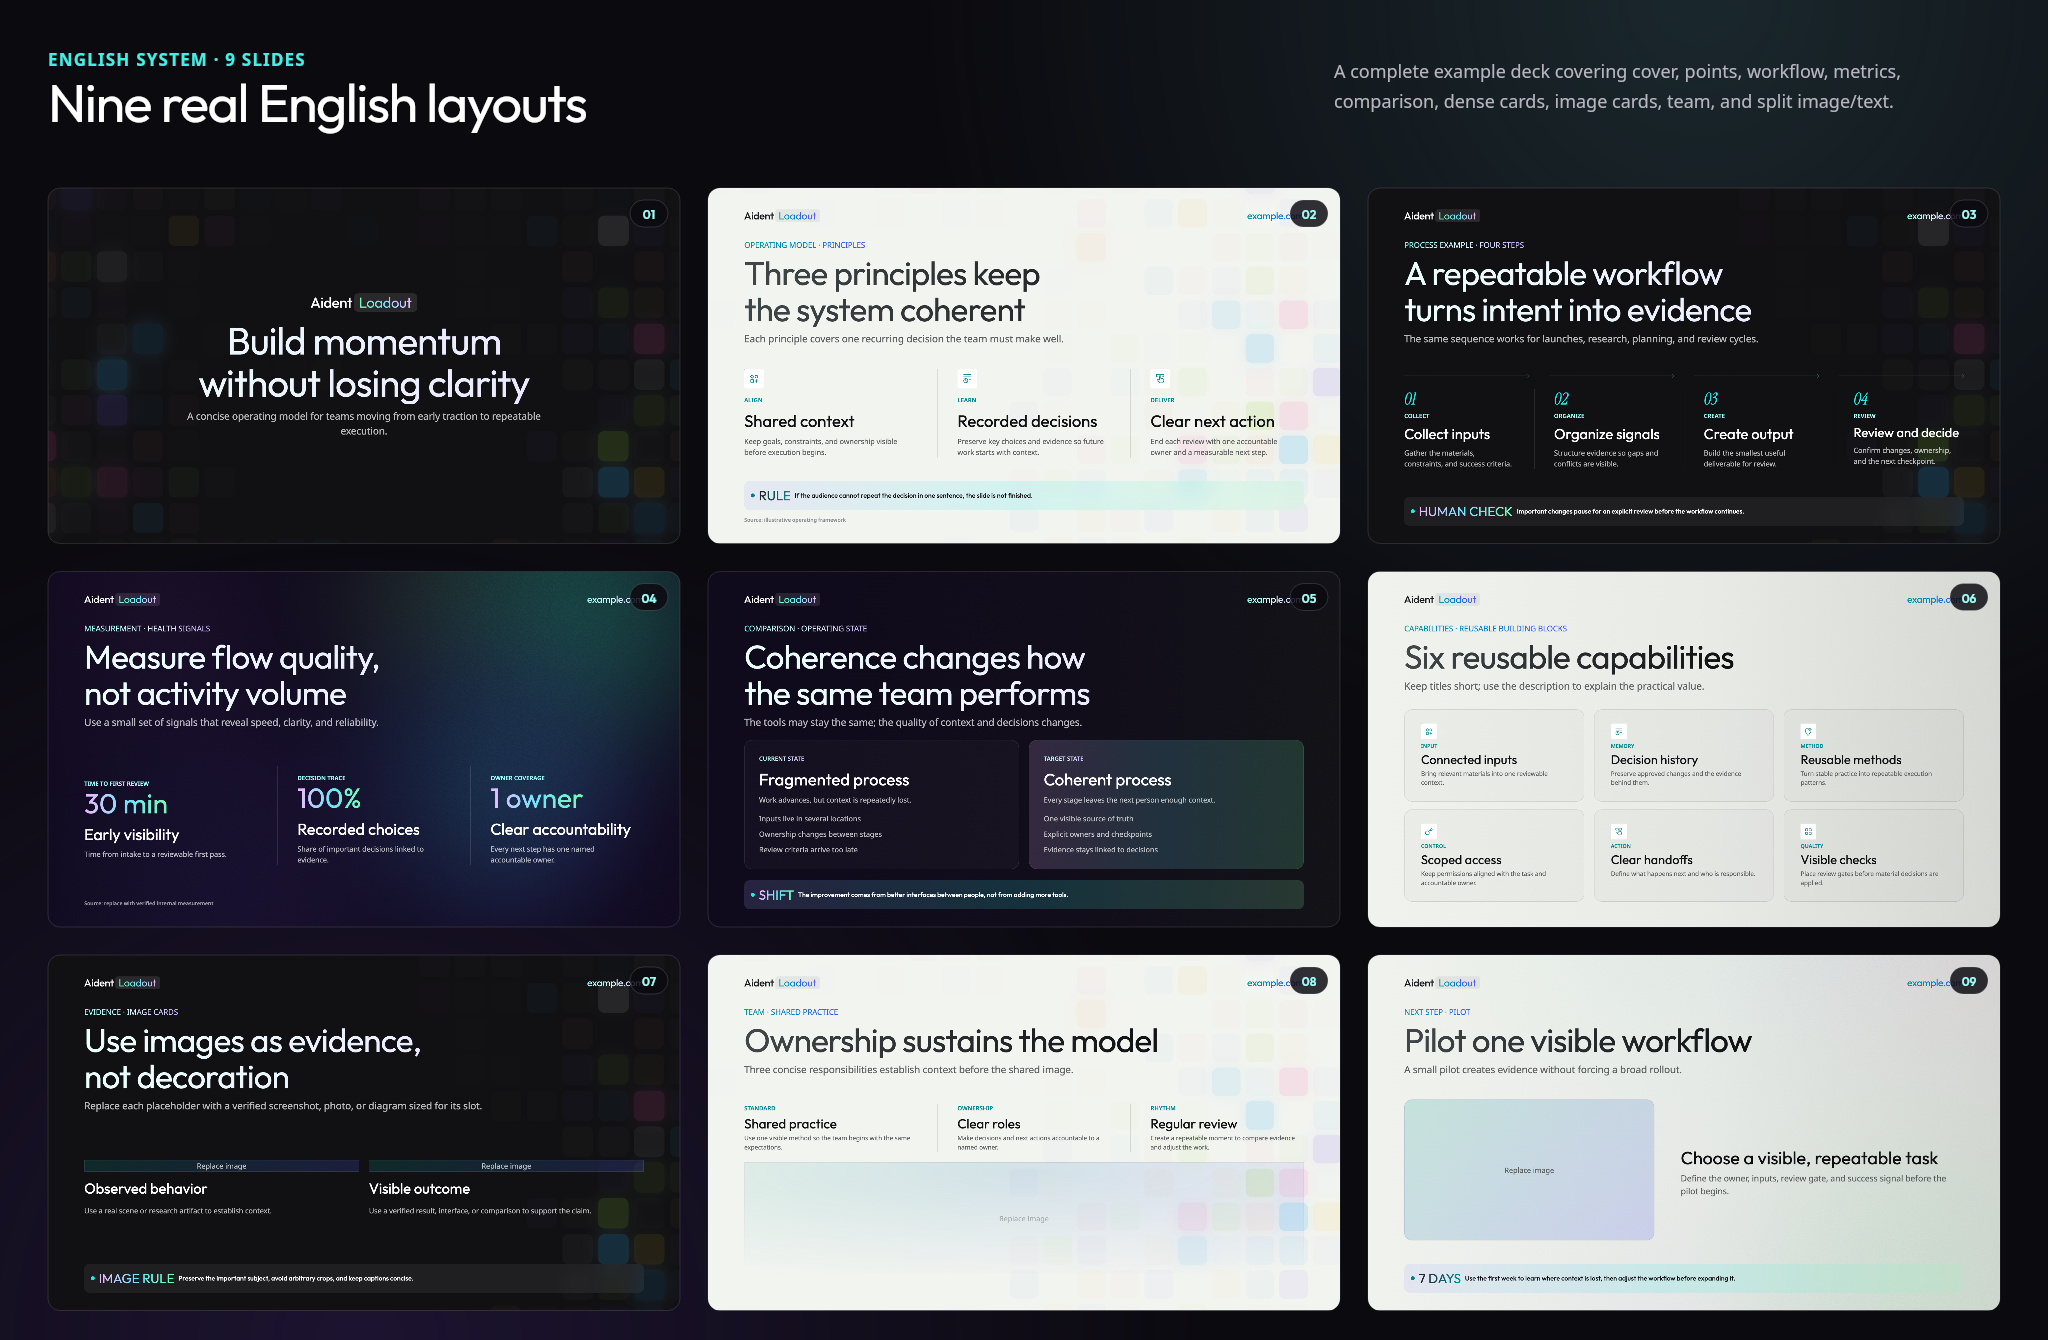
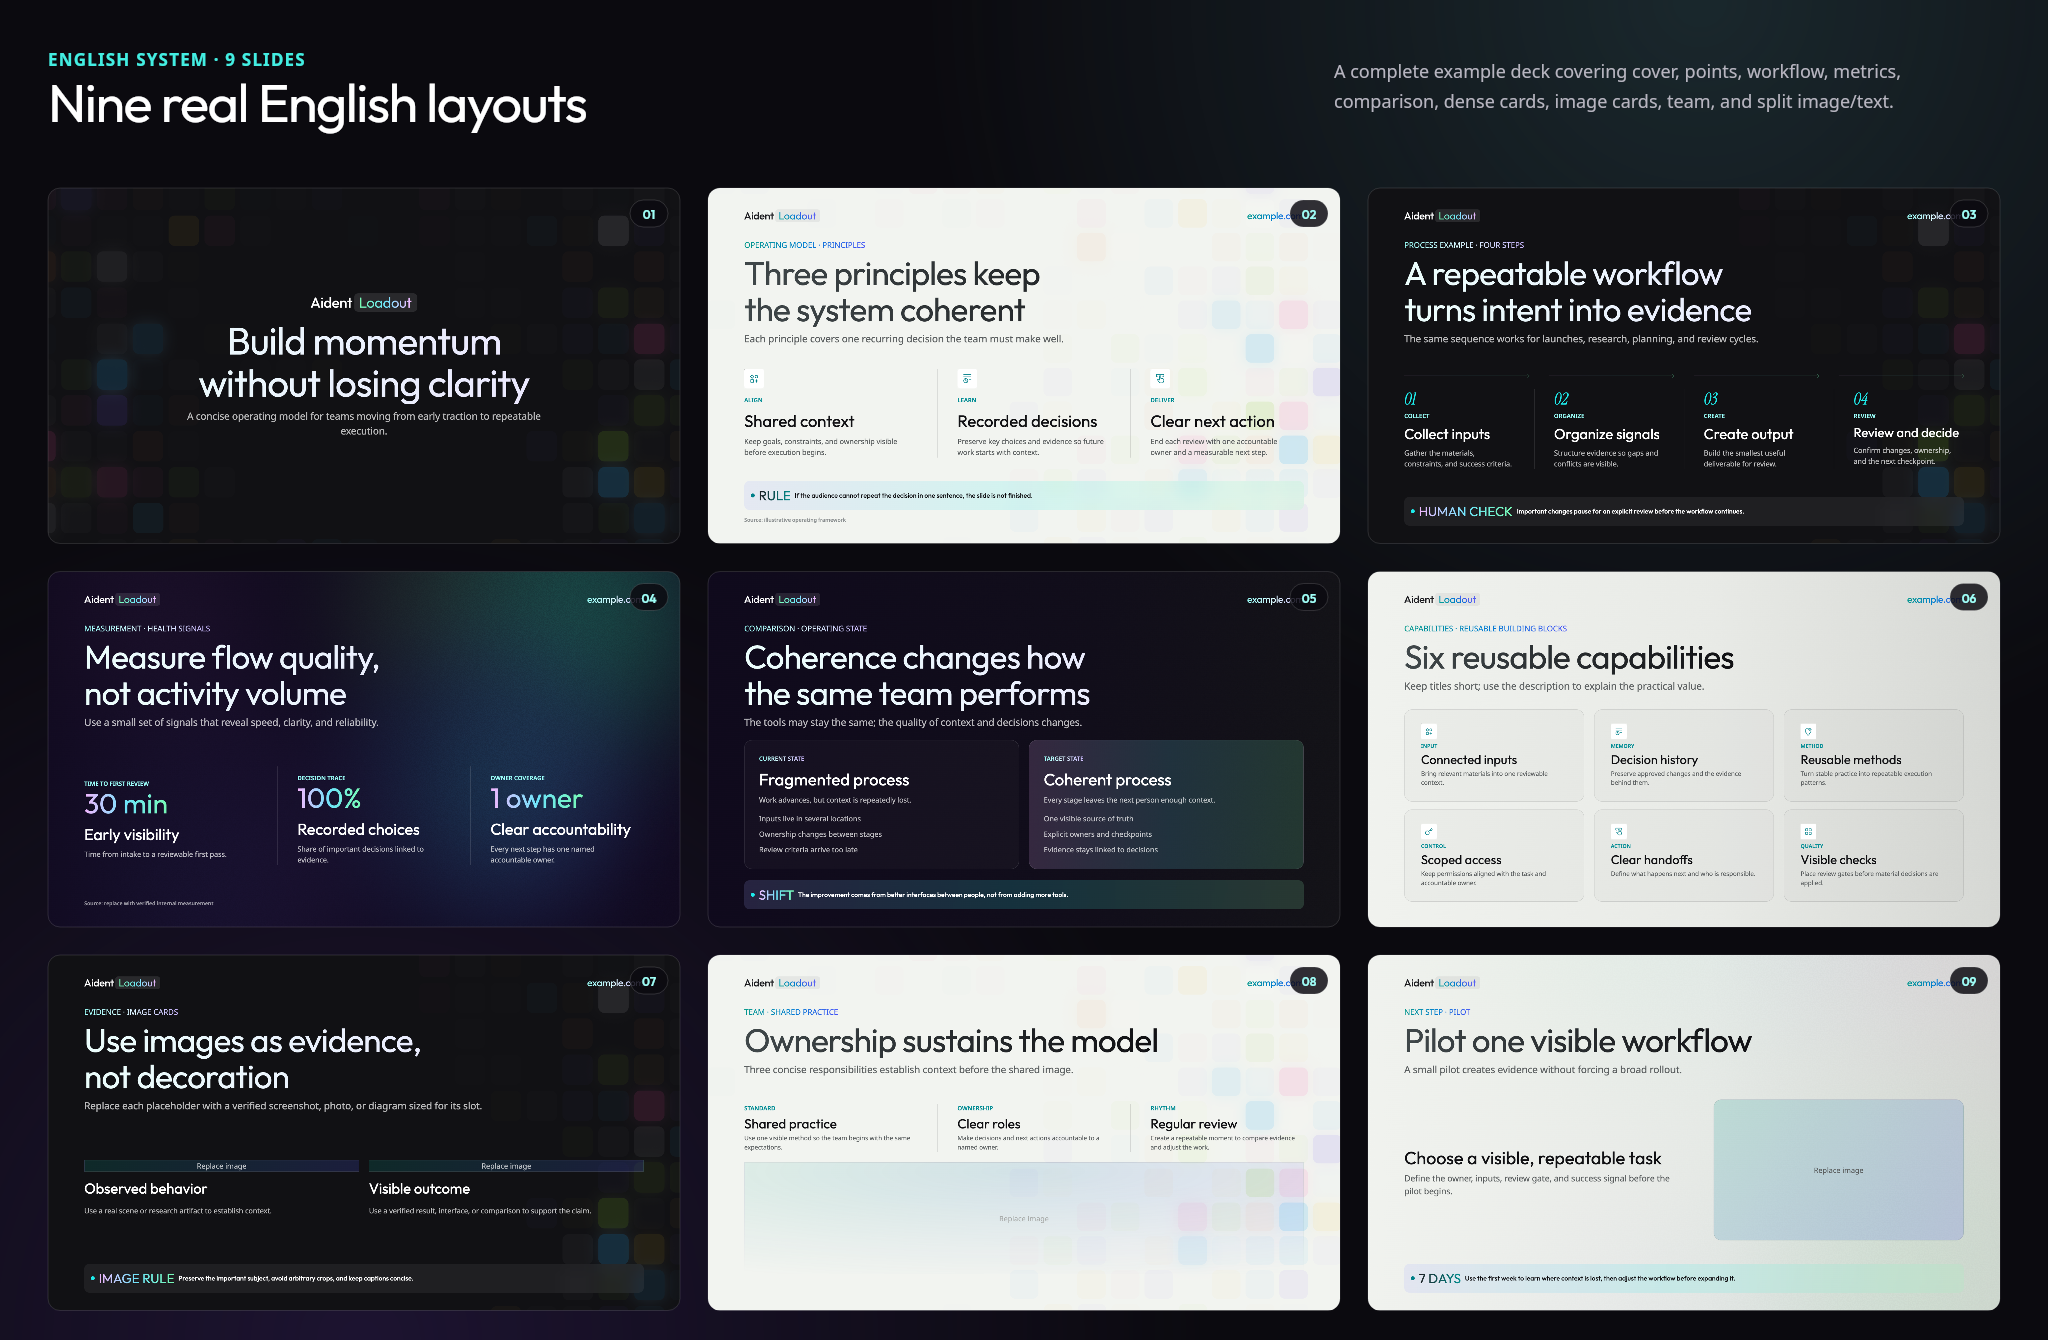
fix: lock split layouts to text-left image-right

Changed region(s): [[0.6875, 0.7955, 0.9688, 0.9485]]

diff --git a/assets/runtime/deck.css b/assets/runtime/deck.css
@@ -199,8 +199,7 @@ body[data-lang="zh"] .step-number{font-family:var(--font-zh-display);font-style:
 .team-media{width:1700px;height:340px;object-fit:cover;object-position:center 38%;-webkit-mask-image:radial-gradient(ellipse 116% 100% at 50% 8%,rgba(0,0,0,.85) 0%,transparent 100%);mask-image:radial-gradient(ellipse 116% 100% at 50% 8%,rgba(0,0,0,.85) 0%,transparent 100%)}
 .team-media-wrap{width:1700px;height:340px}
 
-.split{display:grid;grid-template-columns:760px minmax(0,1fr);gap:80px;align-items:center;height:100%}
-.split.reverse{grid-template-columns:minmax(0,1fr) 760px}
+.split{display:grid;grid-template-columns:minmax(0,1fr) 760px;gap:80px;align-items:center;height:100%}
 .split-media{width:760px;height:428px;object-fit:cover;border-radius:24px}
 .split-copy{display:flex;flex-direction:column;align-items:flex-start}
 .split-copy .item-title{white-space:normal;font-size:54px;line-height:1.3;text-wrap:balance}

diff --git a/references/layout-catalog.md b/references/layout-catalog.md
@@ -40,7 +40,7 @@ Source? (one line, lower left)
 | Comparison | 2 states | two equal cards | yes | yes | base / atmosphere |
 | Image cards | 2 or 3 | equal 16:10 media cards | yes | yes | base / elements-inner |
 | Team | 3 content items + one 1700×340 masked image | three columns above image | no | no | elements-inner / atmosphere |
-| Split image + text | image left/right | 760×428 media + 80px gap + text | yes | yes | base / elements-inner / atmosphere |
+| Split image + text | left text / right image | text + 80px gap + 760×428 media | yes | yes | base / elements-inner / atmosphere |
 | Full bleed | one hero image | 1920×1080 image + wash | yes, sparingly | yes | supplied image |
 
 ## Cover
@@ -162,7 +162,7 @@ Use only for an actual ordered sequence.
 ## Split image + text
 
 - One 760×428, 16:9 image with 24px radius.
-- `imageSide` can be `left` or `right`; the package default is left image / right text.
+- Text is always on the left and the image is always on the right. `imageSide`, when supplied, must be `right`.
 - Preserve the 80px gap between media and text.
 - `contentTitle` may wrap; it is not a small card title.
 - With Callout, the page title must be one line: EN 30 / ZH 14.

diff --git a/references/image-direction-and-screenshots.md b/references/image-direction-and-screenshots.md
@@ -57,12 +57,12 @@ Treat a screenshot as evidence, not as a background texture.
 - Prefer the slide/card surface and registered radius as the frame. Do not bake an Aident page header, title, Callout, or Source into the screenshot.
 - If the source aspect ratio is unsuitable, capture or redesign the screenshot at the target slot ratio instead of compressing it.
 
-## Side-aware split composition
+## Split composition
 
 For `split-image-text`:
 
-- `imageSide: "left"`: keep the subject near the left/center of the image and avoid visual pull toward the right text column;
-- `imageSide: "right"`: mirror the composition and keep the left edge calm next to the text;
+- keep the text column on the left and the image on the right;
+- keep the image's left edge calm next to the text and avoid a subject that visually collides with the copy column;
 - preserve the registered 80px media/text gap;
 - keep the main page heading outside the split region;
 - use one image only.

diff --git a/README.en.md b/README.en.md
@@ -199,6 +199,7 @@ Release requires every requested artifact and a matching passing QA report. See 
 - Source, logo, right-header text, label, and icon are independently optional.
 - Replacement logos preserve their intrinsic ratio: limit inner-header marks by 40px height and cover identity marks by 56px height; never stretch to a fixed width.
 - Team is strictly three concise content items above one 1700×340 masked image; it does not append a Callout or Source footer, and image provenance belongs in speaker notes.
+- Split image/text is fixed to left text and one 760×428 image on the right with an 80px gap; never mirror it.
 - Six-card and Team page titles remain one line within 30 English or 12 Chinese characters.
 - Use packaged design-system icons only. Do not redraw them or substitute emoji.
 - Do not invent sensitive commercial names, customers, metrics, or performance claims.

diff --git a/SKILL.md b/SKILL.md
@@ -112,7 +112,7 @@ Use `references/components-and-layouts.md` and choose the smallest layout that c
 - `comparison`: exactly two states or alternatives.
 - `image-cards`: 2 or 3 evidence-led image stories.
 - `team`: exactly three concise content items followed by one 1700×340 radial-mask photograph. Do not append a Callout or Source footer; keep image provenance in speaker notes.
-- `split-image-text`: one 760×428 image plus explanation, image left or right.
+- `split-image-text`: explanation on the left and one 760×428 image on the right. This order is fixed; never mirror it.
 - `full-bleed`: one verified hero image with readable overlay copy.
 
 Do not invent a layout outside the registry during ordinary generation. If the content cannot fit, restructure it or split it into two slides.

diff --git a/references/components-and-layouts.md b/references/components-and-layouts.md
@@ -266,7 +266,7 @@ Purpose: ownership, collaboration, operating rhythm, or human context.
 Purpose: feature/evidence plus explanation or next step.
 
 - One 760×428 image.
-- Image left by default; `imageSide: "right"` reverses it.
+- Text stays on the left and the image stays on the right; do not mirror this layout.
 - Content title may wrap, unlike small component titles.
 - Preserve an 80px gap between image and text.
 - A callout may sit below the split content.

diff --git a/references/content-schema.md b/references/content-schema.md
@@ -268,7 +268,7 @@ The Team layout is strictly three content items followed by the 1700×340 masked
 ```json
 {
   "type": "split-image-text",
-  "imageSide": "left",
+  "imageSide": "right",
   "image": { "src": "./images/pilot.jpg", "alt": "Pilot workflow" },
   "contentTitle": "Choose a visible, repeatable task",
   "body": "Short explanatory paragraph."
